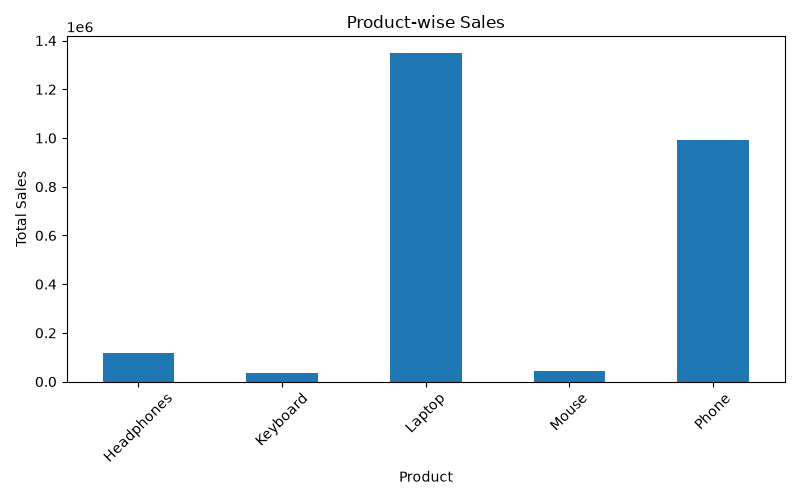
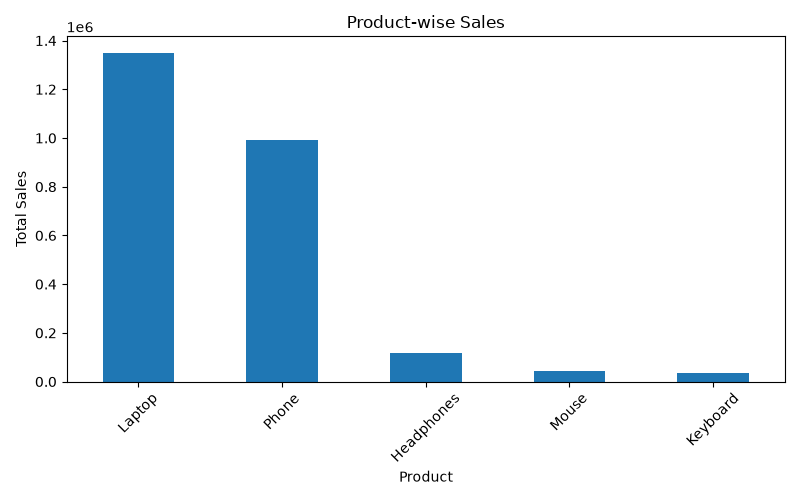
Refactor sales analysis for readability and efficiency

diff --git a/sales_analysis_backup.py b/sales_analysis_backup.py
@@ -1,0 +1,176 @@
+import pandas as pd
+import matplotlib.pyplot as plt
+
+
+def load_data(file_path):
+    """Load sales data from a CSV file."""
+    return pd.read_csv(file_path)
+
+
+def prepare_data(df):
+    """Prepare sales data for analysis."""
+    df = df.copy()
+
+    df["Date"] = pd.to_datetime(df["Date"])
+    df["Total_Sales"] = df["Quantity"] * df["Price"]
+    df["Month"] = df["Date"].dt.to_period("M")
+
+    return df
+
+
+def calculate_basic_metrics(df):
+    """Calculate basic sales metrics."""
+    total_revenue = df["Total_Sales"].sum()
+    average_sale = df["Total_Sales"].mean()
+    highest_sale = df["Total_Sales"].max()
+    lowest_sale = df["Total_Sales"].min()
+    total_quantity = df["Quantity"].sum()
+
+    return {
+        "total_revenue": total_revenue,
+        "average_sale": average_sale,
+        "highest_sale": highest_sale,
+        "lowest_sale": lowest_sale,
+        "total_quantity": total_quantity
+    }
+
+
+def product_sales(df):
+    """Calculate total sales for each product."""
+    return df.groupby("Product")["Total_Sales"].sum().sort_values(
+        ascending=False
+    )
+
+
+def category_sales(df):
+    """Calculate total sales for each category."""
+    return df.groupby("Category")["Total_Sales"].sum().sort_values(
+        ascending=False
+    )
+
+
+def daily_sales(df):
+    """Calculate total sales for each day."""
+    return df.groupby("Date")["Total_Sales"].sum()
+
+
+def monthly_sales(df):
+    """Calculate total sales for each month."""
+    return df.groupby("Month")["Total_Sales"].sum()
+
+
+def quantity_by_product(df):
+    """Calculate quantity sold for each product."""
+    return df.groupby("Product")["Quantity"].sum().sort_values(
+        ascending=False
+    )
+
+
+def get_best_product(df):
+    """Find the best-selling product by revenue."""
+    sales = product_sales(df)
+
+    return sales.idxmax(), sales.max()
+
+
+def get_best_sales_day(df):
+    """Find the day with the highest sales."""
+    sales = daily_sales(df)
+
+    return sales.idxmax(), sales.max()
+
+
+def create_product_sales_chart(df):
+    """Create product-wise sales chart."""
+    sales = product_sales(df)
+
+    plt.figure(figsize=(8, 5))
+    sales.plot(kind="bar")
+
+    plt.title("Product-wise Sales")
+    plt.xlabel("Product")
+    plt.ylabel("Total Sales")
+    plt.xticks(rotation=45)
+    plt.tight_layout()
+
+    plt.savefig("product_wise_sales.png")
+    plt.show()
+
+
+def create_monthly_sales_chart(df):
+    """Create monthly sales chart."""
+    sales = monthly_sales(df)
+
+    plt.figure(figsize=(8, 5))
+    sales.plot(kind="bar")
+
+    plt.title("Monthly Sales")
+    plt.xlabel("Month")
+    plt.ylabel("Total Sales")
+    plt.tight_layout()
+
+    plt.savefig("monthly_sales.png")
+    plt.show()
+
+
+def create_quantity_chart(df):
+    """Create quantity sold by product chart."""
+    quantity = quantity_by_product(df)
+
+    plt.figure(figsize=(8, 5))
+    quantity.plot(kind="bar")
+
+    plt.title("Quantity Sold by Product")
+    plt.xlabel("Product")
+    plt.ylabel("Quantity Sold")
+    plt.xticks(rotation=45)
+    plt.tight_layout()
+
+    plt.savefig("quantity_by_product.png")
+    plt.show()
+
+
+def main():
+    """Run the complete sales analysis pipeline."""
+
+    df = load_data("data/sales_data.csv")
+    df = prepare_data(df)
+
+    metrics = calculate_basic_metrics(df)
+
+    print("\n===== SALES ANALYSIS =====")
+    print("Total Revenue:", metrics["total_revenue"])
+    print("Average Sale:", metrics["average_sale"])
+    print("Highest Sale:", metrics["highest_sale"])
+    print("Lowest Sale:", metrics["lowest_sale"])
+    print("Total Quantity Sold:", metrics["total_quantity"])
+
+    print("\nProduct-wise Sales:")
+    print(product_sales(df))
+
+    print("\nCategory-wise Sales:")
+    print(category_sales(df))
+
+    best_product, best_product_sales = get_best_product(df)
+    print("\nBest-Selling Product:", best_product)
+    print("Best Product Sales:", best_product_sales)
+
+    best_day, best_day_sales = get_best_sales_day(df)
+    print("\nBest Sales Day:", best_day)
+    print("Best Day Sales:", best_day_sales)
+
+    print("\nQuantity Sold by Product:")
+    print(quantity_by_product(df))
+
+    print("\nMissing Values:")
+    print(df.isnull().sum())
+
+    print("\nDuplicate Rows:", df.duplicated().sum())
+
+    create_product_sales_chart(df)
+    create_monthly_sales_chart(df)
+    create_quantity_chart(df)
+
+
+if __name__ == "__main__":
+    main()
